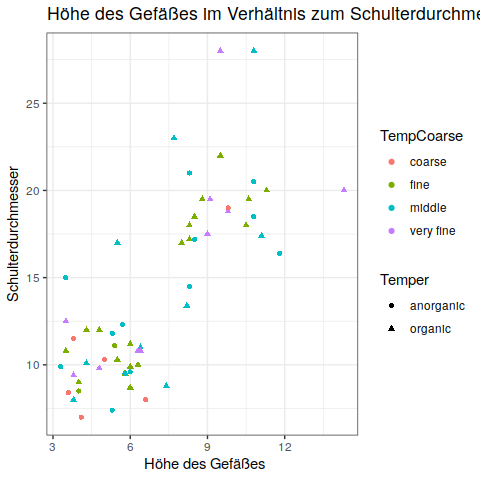
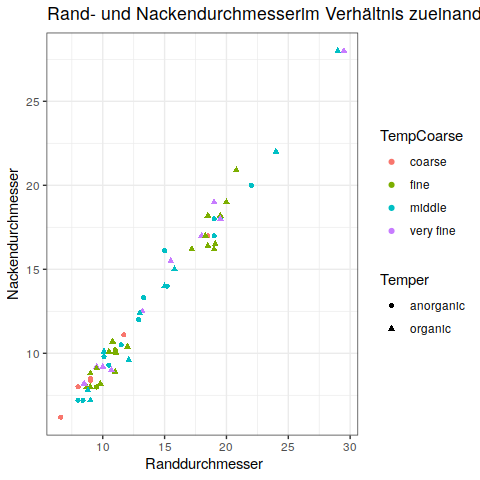
2h Kurs aufgepeppt mit Links und added info

diff --git a/analysis/paper/2h_Kurs_Streudiagramm.md b/analysis/paper/2h_Kurs_Streudiagramm.md
@@ -1,11 +1,14 @@
 ## Streudiagramme
 
-Bei Streudiagrammen kann ich zwei Variablen einer Einheit gegeneinander
-plotten.
+Bei Streudiagrammen kann ich zwei metrische (aka echte Zahlen) Variablen
+gegeneinander plotten. Das heißt, wir haben auf der X- und auf der
+Y-Achse metrische Variablen und setzen pro Objekt im Datensatz einen
+Punkt an die Stelle, wo sich die Werte in den beiden gewählten Variablen
+(Spalten) treffen.
 
-Wir tragen auf der X- und auf der Y-Achse metrische Daten ab. Das gehört
-zu den aesthetics-Elementen, deshalb tun wir die Info in die Klammern
-hinter aes():
+Der Befehl für ein Streudiagramm ist `geom_point`. Welche Variablen
+abgetragen werden sollen, gehört zu den aesthetics-Elementen, deshalb
+tun wir die Info in die Klammern hinter `aes`:
 
 ``` r
 ggplot(data = BACups)+
@@ -40,17 +43,90 @@ Form der Punkte bestimmt lege ich mit `shape` fest, die Farbe mit
 
 ``` r
 ggplot(data = BACups)+
-  geom_point(aes(x = H, 
-                 y = SD, 
+  geom_point(aes(x = RD, 
+                 y = ND, 
                  shape = Temper, # Form der Punkte
                  color = TempCoarse)) + # Farbe d. Punkte
-  labs(x =" Höhe des Gefäßes",
-       y ="Schulterdurchmesser",
-       title = "Höhe des Gefäßes im Verhältnis zum Schulterdurchmesser")+
+  labs(x =" Randdurchmesser",
+       y ="Nackendurchmesser",
+       title = "Rand- und Nackendurchmesserim Verhältnis zueinander")+
   theme_bw()
 ```
 
 ![](2h_Kurs_Streudiagramm_files/figure-markdown_github/Streudiagramm%20mit%20schönen%20Punkten-1.png)
+Wie man sieht,ist jetzt die Legendenbeschriftung aber noch nicht soo
+toll: englisch und abgekürzt.
+
+Auch das können wir ändern. Diesmal mit `scales`. Wir sagen, nimm die
+Legende, die diskrete (discrete) Farben (color) zuweist,
+`scale_color_discrete` und ändere den Namen. Genause mit der Form
+(shape):
+
+``` r
+ggplot(data = BACups)+
+  geom_point(aes(x = RD, 
+                 y = ND, 
+                 shape = Temper, # Form der Punkte
+                 color = TempCoarse)) + # Farbe d. Punkte
+  labs(x =" Randdurchmesser",
+       y ="Nackendurchmesser",
+       title = "Rand- und Nackendurchmesserim Verhältnis zueinander")+
+  scale_color_discrete(name  ="Magerungsgröße")+
+  scale_shape_discrete(name  ="Magerungsart")+
+  theme_bw()
+```
+
+![](2h_Kurs_Streudiagramm_files/figure-markdown_github/Legende%20umbenennen-1.png)
+
+Wir können die Beschriftung ändern. Dafür nutzen wir den `scales`-Befehl
+und das Argument `label` und führen die gewünschten labels in der
+Reihenfolge, wie sie erscheinen, auf:
+
+``` r
+ggplot(data = BACups)+
+  geom_point(aes(x = RD, 
+                 y = ND, 
+                 shape = Temper, # Form der Punkte
+                 color = TempCoarse)) + # Farbe d. Punkte
+  labs(x =" Randdurchmesser",
+       y ="Nackendurchmesser",
+       title = "Rand- und Nackendurchmesserim Verhältnis zueinander")+
+  scale_color_discrete(name  ="Magerungsgröße",
+                       labels = c("grob", "fein", "mittel", "sehr fein")) +
+  scale_shape_discrete(name  ="Magerungsart",
+                       labels = c("anorganisch", "organisch") )+
+  theme_bw()
+```
+
+![](2h_Kurs_Streudiagramm_files/figure-markdown_github/Legendenbeschriftung%20umbenennen-1.png)
+
+Und die Farben, die sind vllt auch nicht so ganz publikationsreif. Es
+gibt viele Möglichkeiten, Hexcodes, Namen, vordefinierte Paletten u.ä.
+(siehe zB [hier](https://r-graph-gallery.com/ggplot2-color.html)), wie
+man mit Farben in R umgehen kann. Wir wählen mal das einfachste und
+nennen die Farben (`values`) in der Reihenfolge, wie wir sie den Werten
+zuweisen möchten. Dazu müssen wir noch eine Sache ändern: Wenn wir eine
+Legendenfarbe “händisch” ändern, muss der `scale` Befehl angepasst
+werden zu `scale_color_manual`:
+
+``` r
+ggplot(data = BACups)+
+  geom_point(aes(x = RD, 
+                 y = ND, 
+                 shape = Temper, # Form der Punkte
+                 color = TempCoarse)) + # Farbe d. Punkte
+  labs(x =" Randdurchmesser",
+       y ="Nackendurchmesser",
+       title = "Rand- und Nackendurchmesserim Verhältnis zueinander")+
+  scale_color_manual(name  ="Magerungsgröße",
+                       labels = c("grob", "fein", "mittel", "sehr fein"),
+                       values = c("blue", "orange", "red", "yellow")) +
+  scale_shape_discrete(name  ="Magerungsart",
+                       labels = c("anorganisch", "organisch") )+
+  theme_bw()
+```
+
+![](2h_Kurs_Streudiagramm_files/figure-markdown_github/Farben%20aendern-1.png)
 
 ## Facettierung!
 
@@ -64,14 +140,51 @@ und ersetzen die zweite mit einem Punkt.
 
 ``` r
   ggplot(data = BACups)+
-  geom_point(aes(x = H, y = SD, shape = Temper, color = TempCoarse)) + 
+  geom_point(aes(x = RD, 
+                 y = ND, 
+                 shape = Temper, # Form der Punkte
+                 color = TempCoarse)) + # Farbe d. Punkte
+  labs(x =" Randdurchmesser",
+       y ="Nackendurchmesser",
+       title = "Rand- und Nackendurchmesserim Verhältnis zueinander")+
+    scale_color_manual(name  ="Magerungsgröße",
+                       labels = c("grob", "fein", "mittel", "sehr fein"),
+                       values = c("blue", "orange", "red", "yellow")) +
+  scale_shape_discrete(name  ="Magerungsart",
+                       labels = c("anorganisch", "organisch") )+
   facet_grid(.~Phase)+ #Aufspalten der Grafik in zwei Teil nach Phase
   theme_bw()
 ```
 
-![](2h_Kurs_Streudiagramm_files/figure-markdown_github/density%20facettieren-1.png)
+![](2h_Kurs_Streudiagramm_files/figure-markdown_github/geom_point%20facettieren-1.png)
 Nur eine einzige Zeile Code mehr und ich habe meine Daten aufgesplittet
 und in exakt gleichen Plots nebeneinander dargestellt. Super praktisch!
+
+## Speichern!
+
+Eins fehlt noch, das ist wichtig: Grafiken abspeichern. Auch hier gibt
+es eine ganze Reihe von Möglichkeiten. Am intuitivsten finde ich
+`ggsave`. ggsave nimmt die letzte ggplot-Grafik und speichert sie an dem
+angegebenen Ort. DPI und Größe lassen sich einstellen:
+
+``` r
+ggsave("Pfad/wohin/grafik.png", dpi = 300, width = 15, height = 10, units = "cm")
+```
+
+## Zusammenfassung
+
+Ganz kurz zur Rekapitulation des Kurses:
+
+-   mit R-Skripten lassen sich Abfolgen von Befehlen automatisieren und
+    wiederholen so häufig man möchte
+-   wenn man mit einem Datensatz arbeiten will, muss man ihn einer
+    Variablen zuweisen (`<-`)
+-   ein Paket muss einmal installiert und nach jedem Neustart des
+    Programms wieder neu eingeladen werden (`library()`)
+-   mit dem Paket ggplot2 lassen sich leicht druckreife Grafiken
+    erstellen
+-   wer mehr wissen möchte, hier gibt es eine ganze Reihe an
+    Skriptsammlungen: <https://scschmidt.github.io/lehre/> und außerdem:
 
 ## “Nachschlagewerke”
 

diff --git a/analysis/paper/2h_Kurs_ggplot_Säulen.md b/analysis/paper/2h_Kurs_ggplot_Säulen.md
@@ -95,7 +95,8 @@ Oder die Säulen bunt einfärben:
 
 ``` r
 ggplot(data = BACups)+ 
-  geom_bar(aes(x = Phase, fill = Temper))+ # fill gibt den Balken unterschiedliche Farben, je nach den Angaben in der Spalte Temper
+  geom_bar(aes(x = Phase, 
+               fill = Temper))+ # fill gibt den Balken unterschiedliche Farben, je nach den Angaben in der Spalte Temper
   labs(y = "Häufigkeit",
        title = "Vorkommen der zwei Phasen")+
   theme_bw() 
@@ -104,4 +105,5 @@ ggplot(data = BACups)+
 ![](2h_Kurs_ggplot_Säulen_files/figure-markdown_github/erstes%20Säulendiagramm%20und%20jetzt%20bunt!-1.png)
 
 Super, wenn das alles geklappt hat! Weiter geht es mit dem Thema
-Streudiagramme, Facettierung und Speichern.
+[Streudiagramme, Facettierung und Speichern von
+Bildern](https://github.com/SCSchmidt/lehre/blob/R-Kurs-Koblenz/analysis/paper/2h_Kurs_Streudiagramm.md).

diff --git a/analysis/paper/2h_Kurs_Datenladen.md b/analysis/paper/2h_Kurs_Datenladen.md
@@ -103,3 +103,7 @@ beschreibt die Tasse mit einer Variablen:
 -   Phase – Phase
 -   Temp – Magerung (hinzugedichtet)
 -   TempCoarse – Grobheit der Magerung (hinzugedichtet)
+
+Jetzt haben wir die Daten “im Programm”, jetzt können wir mit der
+Visualisierung weitermachen, mit [ggplot und
+Säulendiagrammen](https://github.com/SCSchmidt/lehre/blob/R-Kurs-Koblenz/analysis/paper/2h_Kurs_ggplot_S%C3%A4ulen.md)!

diff --git a/analysis/paper/2h_Kurs_Intro.md b/analysis/paper/2h_Kurs_Intro.md
@@ -239,3 +239,9 @@ Mit x kann ich jetzt weiterrechnen:
 ``` r
 y <- x+2
 ```
+
+Auch ganze Datensätze werden Variablen zugewiesen, damit wir mit ihnen
+arbeiten können. Wie das geht – eine Tabelle einzuladen, um damit im
+Programm weiterarbeiten zu können, wird
+[hier](https://github.com/SCSchmidt/lehre/blob/R-Kurs-Koblenz/analysis/paper/2h_Kurs_Datenladen.md)
+erklärt.
